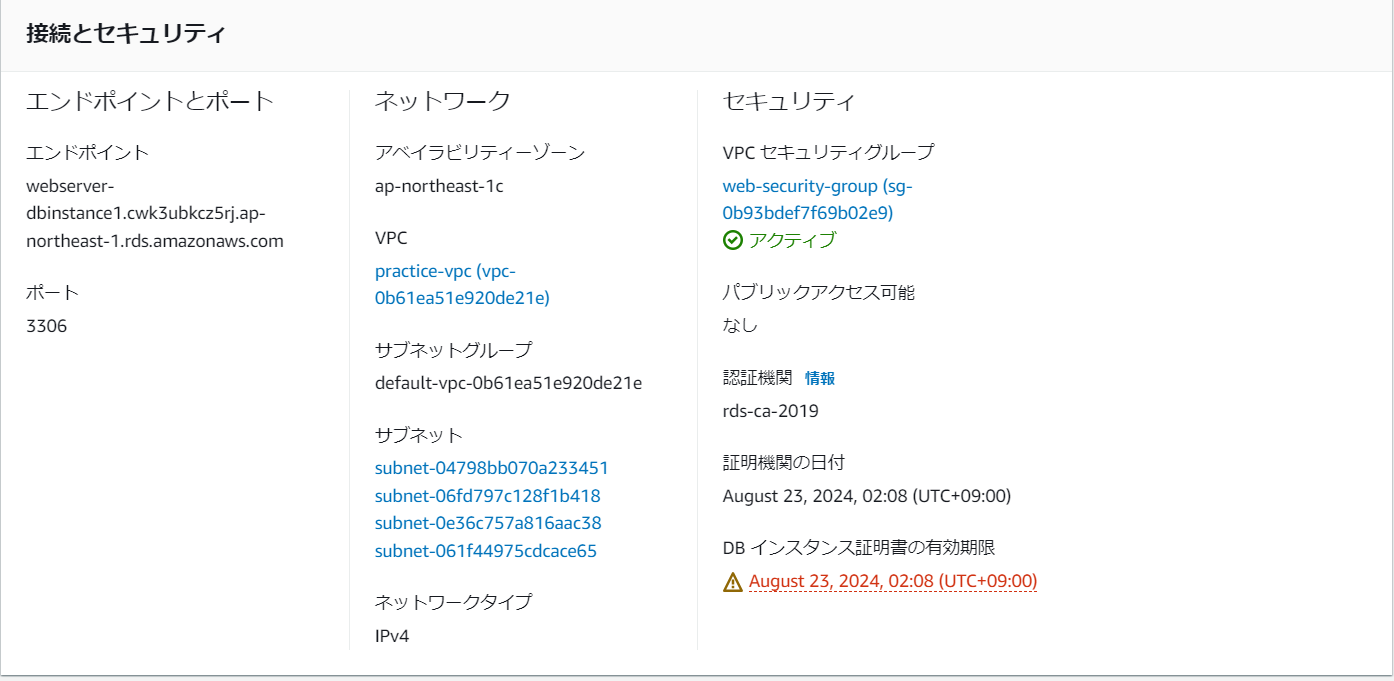
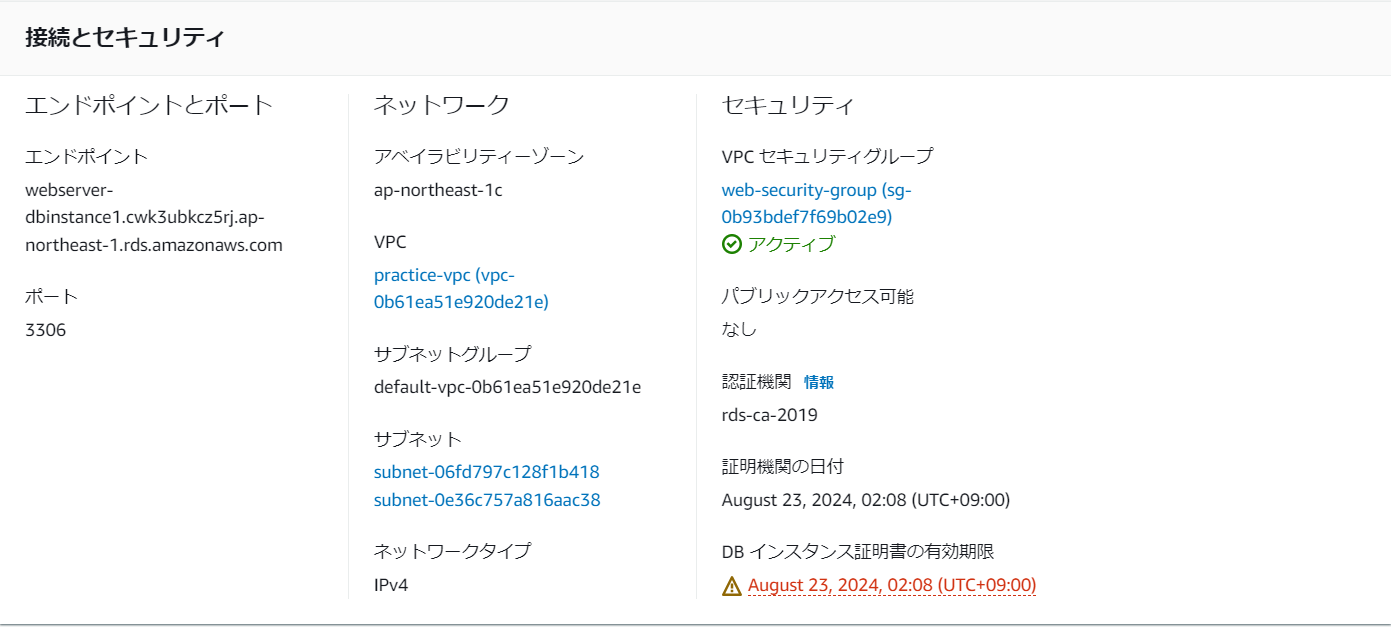
add lecture04

diff --git a/lecture04.md b/lecture04.md
@@ -1,28 +1,27 @@
 ## 第4回課題
 - VPCの作成
 
-![VPC](https://github.com/kenta-utiyama/Raisetech/blob/lecture04/img4/vpc.PNG)
+![VPC](./img4/vpc.PNG)
 
 - セキュリティグループの設定
-  - インバウンド
 
-![インバウンド](https://github.com/kenta-utiyama/Raisetech/blob/lecture04/img4/securitygroupin.PNG)
+![セキュリティグループ](./img4/securitygroup.PNG)
 
- - アウトバウンド
+- サブネットグループの設定
 
-![アウトバウンド](https://github.com/kenta-utiyama/Raisetech/blob/lecture04/img4/securitygroupout.PNG)
+![サブネットグループ](./img4/subnetgroup.PNG)
 
 - EC2インスタンスへSSH接続
 
-![EC2への接続確認](https://github.com/kenta-utiyama/Raisetech/blob/lecture04/img4/EC2_kakunin.PNG)
+![EC2への接続確認](./img4/EC2_kakunin.PNG)
 
 - RDSの作成
 
-![RDS](https://github.com/kenta-utiyama/Raisetech/blob/lecture04/img4/rds.PNG)
+![RDS](./img4/rds.PNG)
 
 - EC2からRDSへの接続
 
-![EC2からRDS](https://github.com/kenta-utiyama/Raisetech/blob/lecture04/img4/RDS_kakunin.PNG)
+![EC2からRDS](./img4/RDS_kakunin.PNG)
 
 ### 感想
 コンソールからSSH接続を行うのに、権限問題やキーペアの配置で時間がかかりました。
